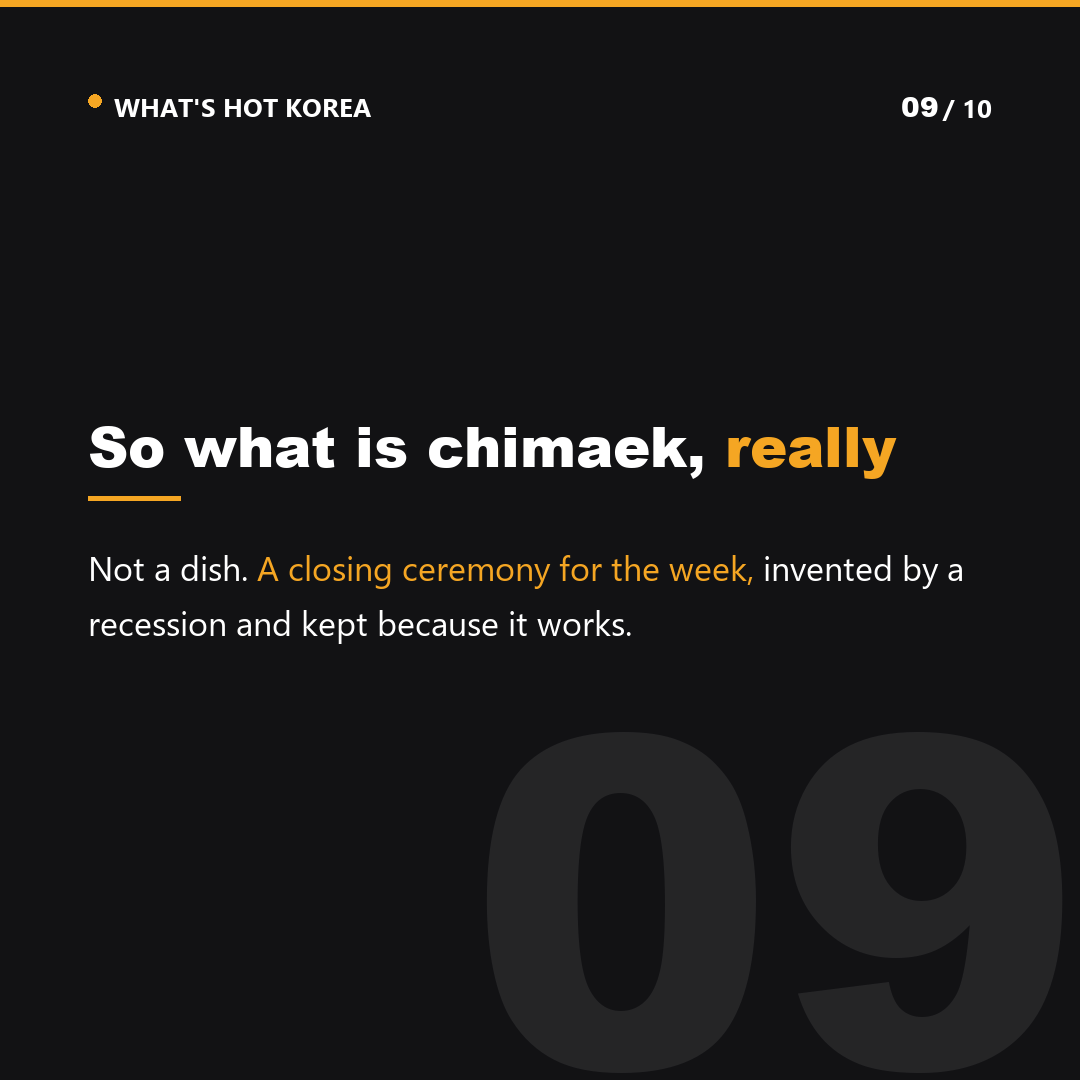
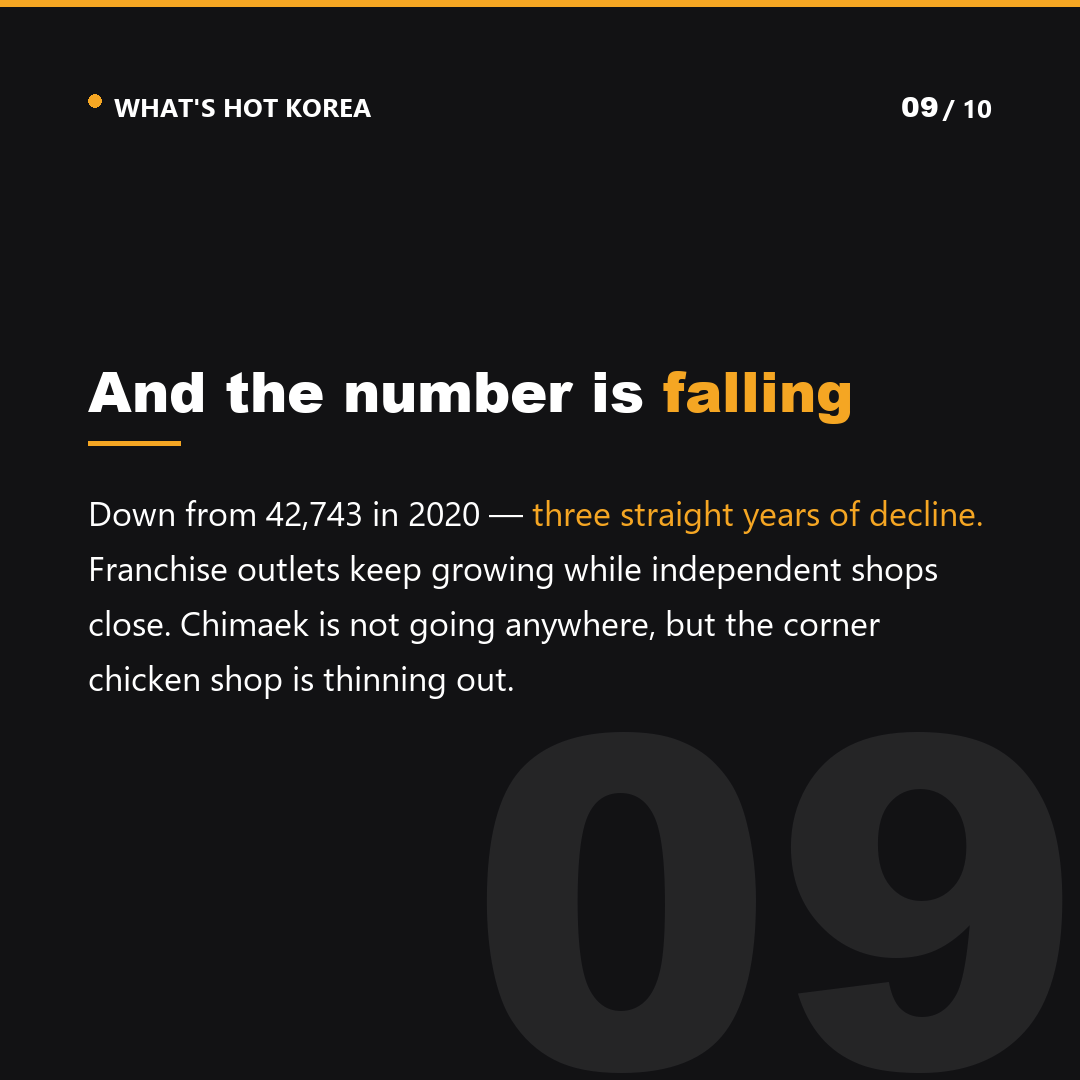
Correct the chicken shop count and drop the next-episode teaser
The 87,000 figure comes from a 2019 KB report Korean media cannot
reproduce. The national count (KOSIS) is 39,789 for 2023 and has fallen
three years running, against 42,477 McDonald's stores worldwide in 2024 --
so the claim is 'almost as many', not 'more than'. The decline became
slide 9 rather than being hidden.

Claude-Session: https://claude.ai/code/session_01VViM1PWmuNCynshNmEqeit

Changed region(s): [[0.0611, 0.3361, 0.9167, 0.4889], [0.0917, 0.5194, 0.8861, 0.6417]]

diff --git a/make_brief.py b/make_brief.py
@@ -38,7 +38,7 @@ def main(argv):
         if slide["type"] == "stat":
             head = f"{slide['stat']} — {head}"
         out.append(f"**{i:02d}. {head}**")
-        for key in ("kicker", "note", "body", "next"):
+        for key in ("kicker", "note", "body"):
             if slide.get(key):
                 out.append(f"  {slide[key]}")
         out.append("")

diff --git a/make_cards.py b/make_cards.py
@@ -217,8 +217,6 @@ def render_cta(slide, index, total, assets):
     pill_w = d.textlength(label, font=bf) + 84
     d.rounded_rectangle([MARGIN, y + 54, MARGIN + pill_w, y + 138], radius=42, fill=AMBER)
     d.text((MARGIN + 42, y + 76), label, font=bf, fill=INK_SOFT)
-
-    draw_rich(d, slide["next"], y + 176, 28, FAINT, weight="bold")
     return img
 
 
